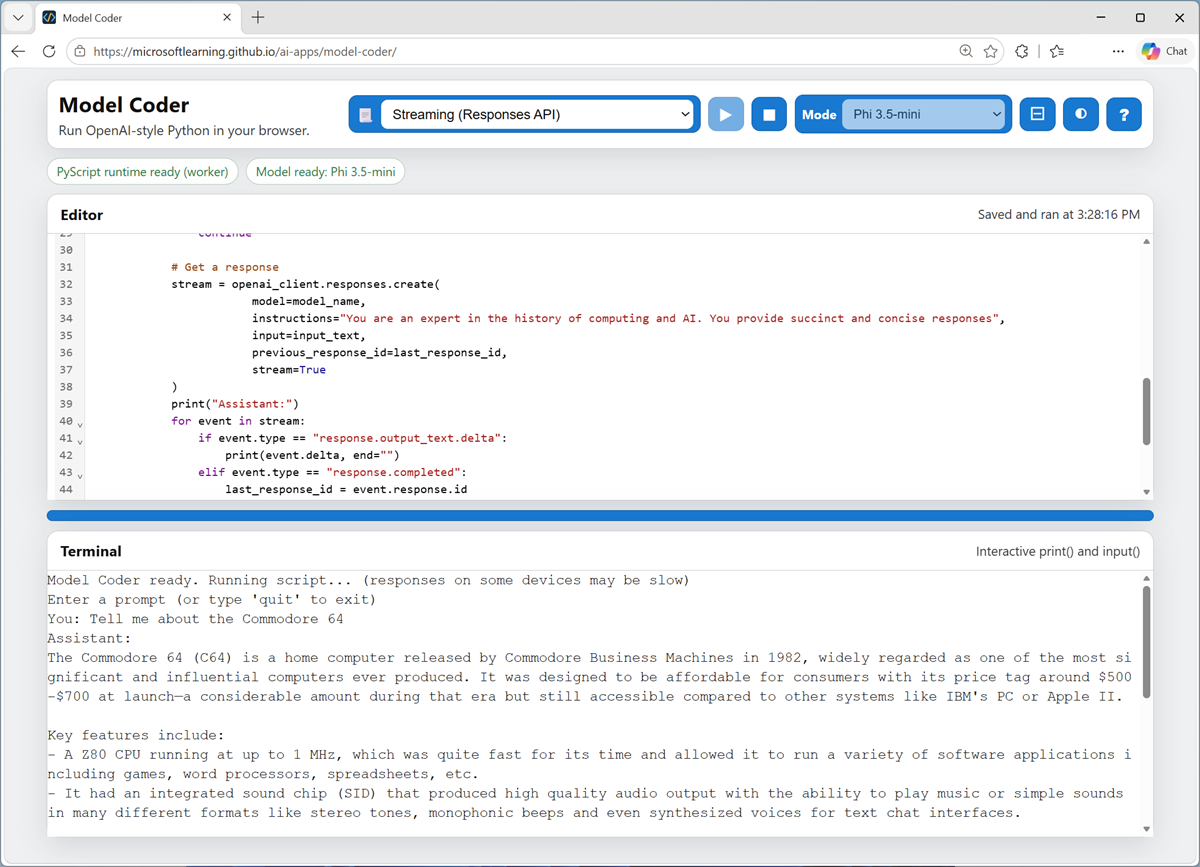
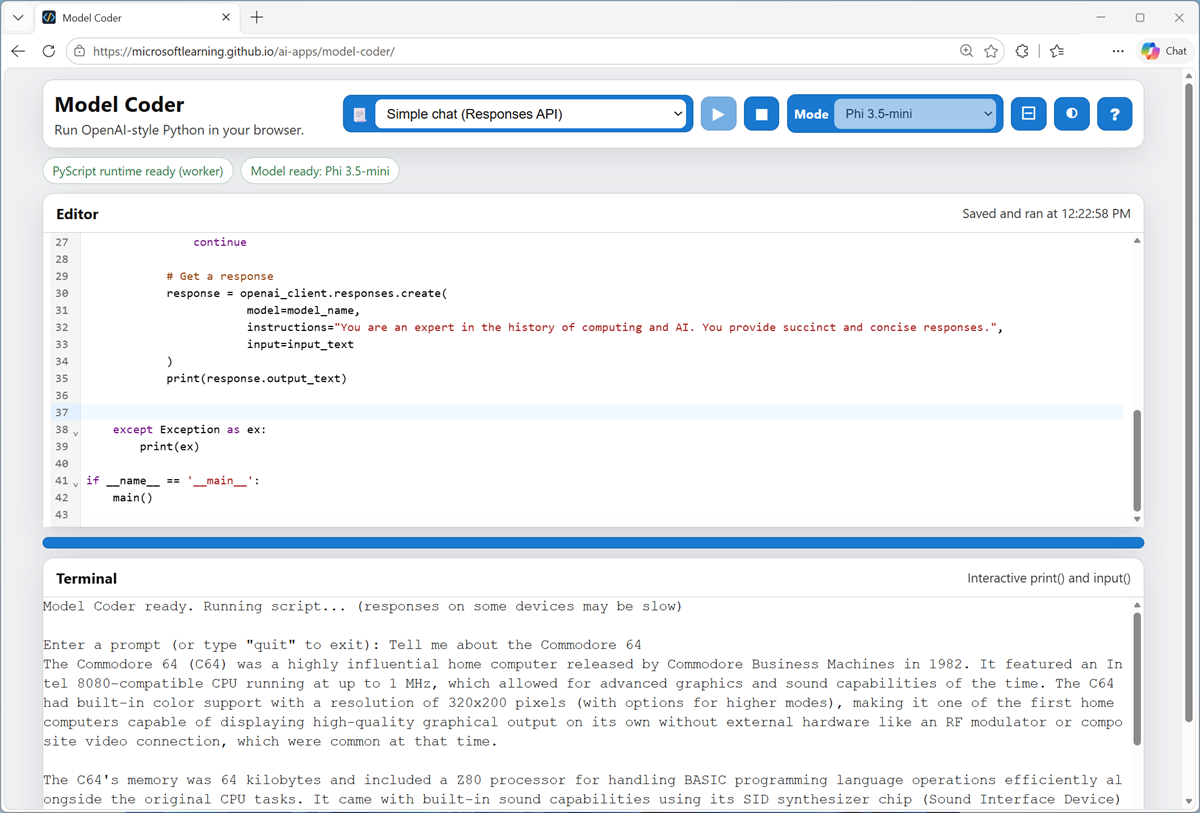
Update GenAI lab

diff --git a/Instructions/exercises/02-generative-ai.md b/Instructions/exercises/02-generative-ai.md
@@ -66,7 +66,17 @@ Let's start by using a chat interface to submit prompts to a generative AI model
 
     Generative AI chat applications often include chat history in the prompt; so the context of the conversation is retained between messages (for example, in the follow-up prompt *Tell me more about her work with Charles Babbage*, "her" is interpreted as referring to Ada Lovelace)
 
-    > **Note**: In *Basic* mode, the conversation history is not retained; so the follow up prompt results in a new Wikipedia query based on the keywords "Charles Babbage".
+    > **Note**: In *Basic* mode (with the model set to *None*), the conversation history is not retained; so the follow up prompt results in a new Wikipedia query based on the keywords "Charles Babbage".
+
+1. In the model playground, at the top-right of the chat pane, use the **New chat** (💬) button to restart the conversation and remove the conversation history.
+
+    Let's try asking about the same subject with a more specific prompt.
+
+1. Enter the prompt `List three facts about Ada Lovelace.` and review the response.
+
+    In *Basic* mode, the response is likely to be the same as before (the chat app simply uses keywords in the prompt to query Wikipedia). However, when using the Phi language model, the prompt should influence the style of the response that is generated.
+
+    > ![Image of Anton.](./media/anton-icon.png)<br>**Note**: The difference between the responses in *Basic* mode and when using the Phi model illustrate a key feature of using an LLM. LLM responses are generated dynamically by the model, and the prompt used can have a significant influence on the output. In comparison, traditional search solutions (like *Basic* mode in the Chat Playground app) work by looking up static text based on search keywords. On the one hand, this makes LLMs more flexible; but on the other hand it means that the response generated may not be *grounded* in authoritative facts. Later, we'll explore how to add sources to ground generative AI responses.
 
 ## Specify *instructions*
 
@@ -142,17 +152,17 @@ One of the most commonly used application programming interfaces (APIs) used to 
 
     This app provides an in-browser sandbox with a Python library that encapsulates the most common classes in the OpenAI SDK. You'll use it to write and run real Python code that submits prompts to a local LLM running in the browser.
 
-1. When the model has loaded, select the **Streaming (Responses API)** template, and view the code in the **Editor** pane.
+1. When the model has loaded, select the **Simple chat (Responses API)** template, and view the code in the **Editor** pane.
 
-   The Model Coder app includes multiple examples of submitting prompts to a generative AI model. The *Streaming (Responses API)* example maintains conversation history and uses a *streaming* interface to maximize resposiveness by displaying partial responses as they're received from the model.
+   The Model Coder app includes multiple examples of submitting prompts to a generative AI model. The *Simple chat (Responses API)* example submits a prompt and displays the response using the OpenAI *Responses* API; which is commonly used to develop generative AI apps and agents.
 
 1. Edit the code to change the **instructions** for the model to the same computing history related one you used in the chat playground (`You are an expert in the history of computing and AI. You provide succinct and concise responses`), as shown here:
 
     ```python
    # import namespace
-   from openai import OpenAI
+    from openai import OpenAI
     
-   def main():
+    def main():
     
         try:
             # Configuration settings 
@@ -166,39 +176,29 @@ One of the most commonly used application programming interfaces (APIs) used to 
                 api_key=key
             )
             
-            # Track responses
-            last_response_id = None
-            print("Enter a prompt (or type 'quit' to exit)")
+            # Loop until the user wants to quit
             while True:
-                input_text = input('You: ')
+                input_text = input('\nEnter a prompt (or type "quit" to exit): ')
                 if input_text.lower() == "quit":
                     print("Goodbye!")
                     break
                 if len(input_text) == 0:
-                    print("Please enter a prompt:")
+                    print("Please enter a prompt.")
                     continue
     
                 # Get a response
-                stream = openai_client.responses.create(
+                response = openai_client.responses.create(
                             model=model_name,
-                            instructions="You are an expert in the history of computing and AI. You provide succinct and concise responses",
-                            input=input_text,
-                            previous_response_id=last_response_id,
-                            stream=True
+                            instructions="You are an expert in the history of computing and AI. You provide succinct and concise responses.",
+                            input=input_text
                 )
-                print("Assistant:")
-                for event in stream:
-                    if event.type == "response.output_text.delta":
-                        print(event.delta, end="")
-                    elif event.type == "response.completed":
-                        last_response_id = event.response.id
-                print()
+                print(response.output_text)
                 
     
         except Exception as ex:
             print(ex)
     
-   if __name__ == '__main__':
+    if __name__ == '__main__':
         main()
     ```
 
@@ -219,9 +219,11 @@ One of the most commonly used application programming interfaces (APIs) used to 
 
     ![Screenshot of Model Coder with code running.](./media/model-coder-response.png)
 
-    > ![Image of Anton.](./media/anton-icon.png)<br/>**Tip**: The model used in this app is a small language model with limited training data and a small context window. Responses may not be accurate. However, the point of the exercise is to explore the OpenAI SDK syntax to submit prompts and receive responses.
+    > **Note**: The combination of interpreting Python code and using a language model in your browser means that the app may take some time to generate a response. On older or lower-spec computers, you may experience errors due to hardware constraints.
 
-    When you're finished, enter `quit`.
+1. When you're finished, enter `quit`.
+
+    > ![Image of Anton.](./media/anton-icon.png)<br/>**Tip**: If you have time, explore some of the other code examples in thw Model Coder app. They include code that uses the *ChatCompletions* API (an older, but still commonly used OpenAI API) as well as examples that use the *Responses* API to track conversation history or use techniques like *streaming* and *asynchronous processing* to improve the apparent responsiveness of the app.
 
 ## Summary
 
